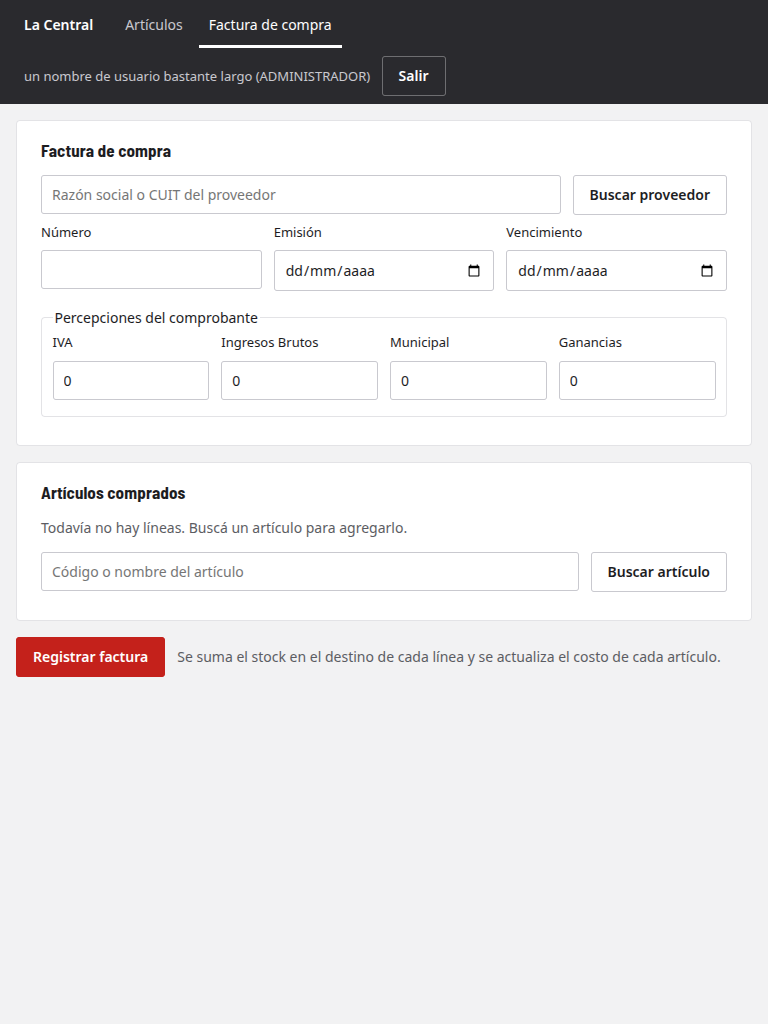
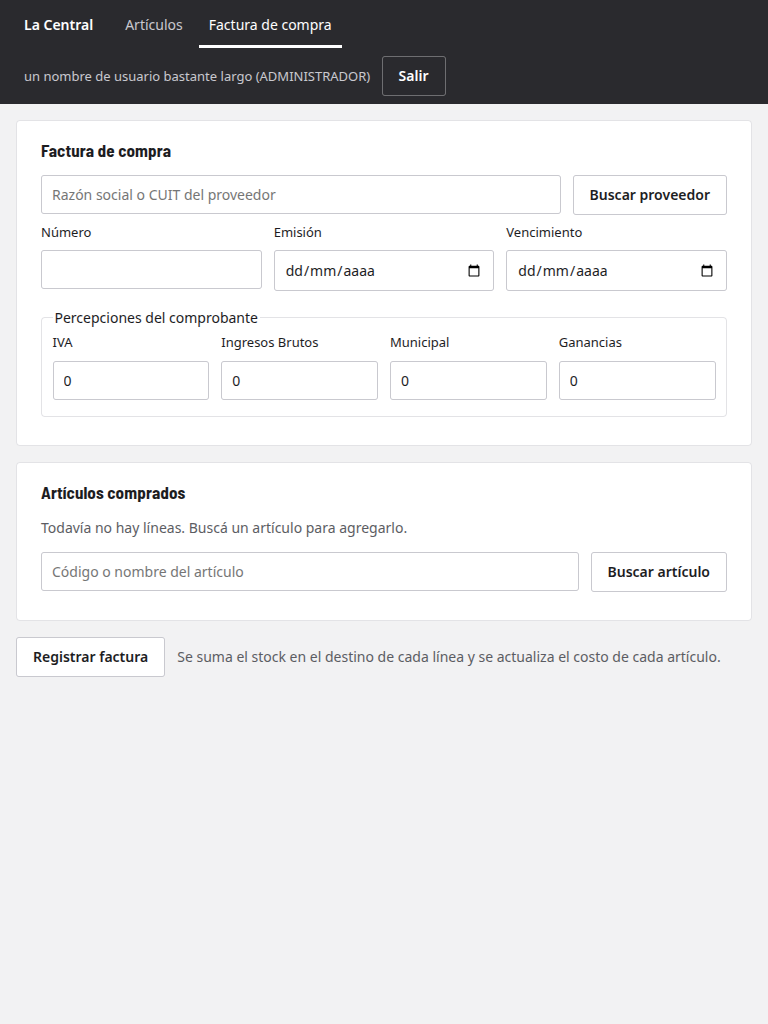
docs(ui): ESTADO con las decisiones del 28/10, fuentes medidas y esquemas huérfanos
Capturas rehechas con el botón secundario por defecto; mediciones CDP y el
script que las produce, en evidencia/fase1/.

Changed region(s): [[0.0, 0.625, 0.2188, 0.6875]]

diff --git a/docs/sprint04/evidencia/fase1/capturas-cdp.py b/docs/sprint04/evidencia/fase1/capturas-cdp.py
@@ -1,0 +1,74 @@
+# Capturas CDP. Arnés: la respuesta del login se intercepta (sesión de prueba); el resto de /api
+# responde 503, así que las pantallas muestran su estado de error real, sin datos inventados.
+import base64, json, sys, time, urllib.request, websocket
+SALIDA, BASE = sys.argv[1], 'http://localhost:4300'
+tabs = json.load(urllib.request.urlopen('http://127.0.0.1:9333/json'))
+ws = websocket.create_connection(next(t for t in tabs if t['type'] == 'page')['webSocketDebuggerUrl'], suppress_origin=True)
+n = 0
+def cdp(metodo, **p):
+    global n; n += 1; ws.send(json.dumps({'id': n, 'method': metodo, 'params': p}))
+    while True:
+        m = json.loads(ws.recv())
+        if m.get('method') == 'Fetch.requestPaused': atender(m['params'])
+        elif m.get('id') == n: return m.get('result', {})
+def atender(p):
+    url = p['request']['url']
+    if url.endswith('/api/acceso/login'):
+        cuerpo = json.dumps({'token': 't', 'nombreUsuario': 'un nombre de usuario bastante largo', 'rol': 'ADMINISTRADOR', 'sucursalId': 1})
+        ws.send(json.dumps({'id': 0, 'method': 'Fetch.fulfillRequest', 'params': {'requestId': p['requestId'], 'responseCode': 200,
+            'responseHeaders': [{'name': 'Content-Type', 'value': 'application/json'}], 'body': base64.b64encode(cuerpo.encode()).decode()}}))
+    else:
+        ws.send(json.dumps({'id': 0, 'method': 'Fetch.fulfillRequest', 'params': {'requestId': p['requestId'], 'responseCode': 503, 'body': ''}}))
+def js(expr): return cdp('Runtime.evaluate', expression=expr, awaitPromise=True, returnByValue=True).get('result', {}).get('value')
+def esperar(seg):
+    fin = time.time() + seg
+    while time.time() < fin: js('1'); time.sleep(.1)
+def captura(nombre, clip=None):
+    p = {'format': 'png', 'captureBeyondViewport': False}
+    if clip: p['clip'] = clip
+    open(f'{SALIDA}/{nombre}.png', 'wb').write(base64.b64decode(cdp('Page.captureScreenshot', **p)['data']))
+def desborde():
+    return js('[document.documentElement.scrollWidth, document.documentElement.clientWidth]')
+
+cdp('Page.enable'); cdp('Runtime.enable'); cdp('DOM.enable'); cdp('CSS.enable')
+cdp('Fetch.enable', patterns=[{'urlPattern': '*/api/*'}])
+for ancho, alto in [(1024, 768), (768, 1024), (480, 800)]:
+    cdp('Emulation.setDeviceMetricsOverride', width=ancho, height=alto, deviceScaleFactor=1, mobile=False)
+    cdp('Page.navigate', url=BASE + '/'); esperar(2.5)
+    print(ancho, 'login', desborde()); captura(f'fase1-{ancho}x{alto}-login')
+    js("""(() => { const i = document.querySelectorAll('input');
+        for (const [el, v] of [[i[0], 'admin'], [i[1], 'x']]) { el.value = v; el.dispatchEvent(new Event('input')); }
+        document.querySelector('button[type=submit]').click(); })()"""); esperar(2)
+    for ruta in ['articulos', 'factura-compra']:
+        js(f"document.querySelector('nav a[href=\"/{ruta}\"]').click()"); esperar(1.5)
+        print(ancho, ruta, desborde()); captura(f'fase1-{ancho}x{alto}-{ruta}')
+
+# Botones, a 1024 en artículos: reposo, cursor encima (capa completa) y foco de teclado.
+cdp('Emulation.setDeviceMetricsOverride', width=1024, height=768, deviceScaleFactor=2, mobile=False)
+js("document.querySelector('nav a[href=\"/articulos\"]').click()"); esperar(1)
+caja = js("(() => { const r = document.querySelector('form.fila').getBoundingClientRect(); return {x: r.x, y: r.y - 6, width: r.width, height: r.height + 12, scale: 1}; })()")
+doc = cdp('DOM.getDocument')['root']['nodeId']
+botones = cdp('DOM.querySelectorAll', nodeId=doc, selector='form.fila button')['nodeIds']
+captura('fase1-botones-reposo', caja)
+for b in botones: cdp('CSS.forcePseudoState', nodeId=b, forcedPseudoClasses=['hover'])
+esperar(.6); captura('fase1-botones-cursor-encima', caja)
+for b in botones: cdp('CSS.forcePseudoState', nodeId=b, forcedPseudoClasses=['focus', 'focus-visible'])
+esperar(.6); captura('fase1-botones-foco', caja)
+for b in botones: cdp('CSS.forcePseudoState', nodeId=b, forcedPseudoClasses=[])
+regla = "getComputedStyle(document.querySelector('form.fila button'), '::before').transitionDuration"
+print('transición de la capa:', js(regla))
+cdp('Emulation.setEmulatedMedia', features=[{'name': 'prefers-reduced-motion', 'value': 'reduce'}])
+print('con movimiento reducido:', js(regla))
+# Fuentes: load() pide el archivo; check() es true solo si la cara está cargada. Control negativo:
+# una cara que apunta a un archivo inexistente tiene que dar error, si no la medición no discrimina.
+js("""(() => { const c = document.createElement('span'); c.className = 'codigo'; c.textContent = 'LC-000123';
+    document.querySelector('main').prepend(c); })()""")
+fuentes = ['500 19px "Barlow Semi Condensed"', '600 19px "Barlow Semi Condensed"', '700 30px "Barlow Semi Condensed"',
+           'italic 800 30px "Barlow Semi Condensed"', '400 14px "Noto Sans"', '600 14px "Noto Sans"',
+           '400 12px "JetBrains Mono"', '500 12px "JetBrains Mono"']
+for f in fuentes:
+    print('fuente', f, js(f"document.fonts.load('{f}').then(c => [c.length, c.map(x => x.status).join(','), document.fonts.check('{f}')])"))
+print('chip de código:', js("(() => { const c = document.querySelector('main .codigo'); return [getComputedStyle(c).fontFamily, document.fonts.check('12px ' + getComputedStyle(c).fontFamily.split(',')[0])]; })()"))
+print('control negativo:', js("""(() => { const f = new FontFace('Fuente Inexistente', "url('/fonts/no-existe.woff2')"); document.fonts.add(f);
+    return f.load().then(() => 'cargó (MAL)', () => 'error: ' + f.status).then(r => [r, document.fonts.check('12px "Fuente Inexistente"')]); })()"""))
+print('fuentes cargadas:', js("document.fonts.ready.then(() => [...document.fonts].filter(f => f.status === 'loaded').map(f => f.family + ' ' + f.weight + ' ' + f.style))"))

diff --git a/docs/sprint04/ESTADO.md b/docs/sprint04/ESTADO.md
@@ -354,10 +354,38 @@ enlace a la base está degradado (ver D-27b).
 - Capturas y estados de botón en `docs/sprint04/evidencia/fase1/`.
 - La capa del botón tarda 0,3 s, y 0 s con movimiento reducido.
 
+**Decisiones (28/10/2026):**
+- `--dur-giro` 800 ms.
+- `--dur-aviso` 5 s para éxito, información y alerta. **El error no se va solo**: queda hasta
+  que el usuario lo cierra.
+- Detrás del modal va el velo, no el panal. La ambigüedad de la §5 queda marcada en el documento.
+- Cinco tokens sin nombre entran a la §2: `--borde-oscuro`, `--velo`, `--fondo-hex-respaldo`,
+  `--grosor-foco` y `--dur-giro`.
+- **Un `button` sin clase es secundario**; el primario se declara con `.primario`. Hasta las
+  Fases 3 y 4, artículos, factura y acceso no tienen primario.
+- Regla nueva en `CLAUDE.md`: un spec no afirma valores de color. Se reescribió CA1 en ese sentido.
+
+**Fuentes, medidas** (`evidencia/fase1/mediciones-cdp.txt`):
+- Para las 3 familias y sus 8 pesos y estilos, `document.fonts.load()` da `loaded` y
+  `document.fonts.check()` da `true`.
+- Un chip de código de ejemplo resuelve a JetBrains Mono.
+- Control negativo: una cara que apunta a un archivo inexistente da `error` y `check() = false`.
+- Los archivos llegan a `dist/`.
+
+**La suite de frontend corre solo en Chromium.** Lo que depende del motor no está cubierto en
+Firefox ni en Safari: por ejemplo, que `<dialog>` devuelva el foco al cerrarse, que hoy es una
+caracterización.
+
+**Esquemas huérfanos en `lacentral_test`** (consulta de solo lectura, 28/10/2026; **no se borró
+nada**, espera visto bueno):
+- `pr110_test_5bef5661630743e4b6d09c409f11fafa`, 26 tablas. Es el de agosto.
+- `pr110_test_7d2e734c4b0345a686683e52b70f6c44`, 26 tablas. Es de una corrida de D-27b abortada
+  el 28/10 durante la caída del enlace.
+
 **NO verificado / pendiente:**
-- Comparación con el prototipo y las 13 referencias: Javi todavía no las subió.
+- Comparación con el prototipo y las 13 referencias, incluida la forma de la marca: Javi
+  todavía no las subió.
 - `public/fondo-hex.jpg`: la imagen no está. Hoy queda el color de respaldo.
-- Tiempo del aviso flotante (5 s) y duración del giro (800 ms): la §8 y la §9 no los fijan.
 
 ## PRÓXIMA SESIÓN
 
